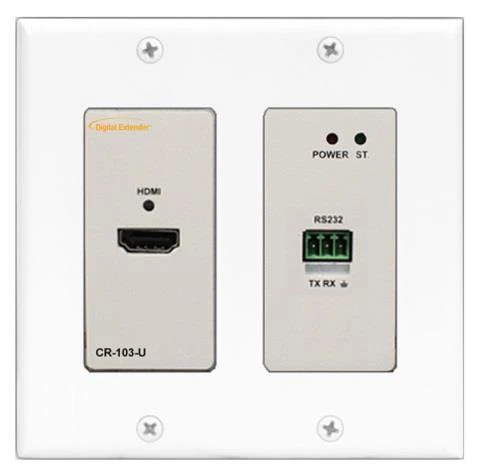
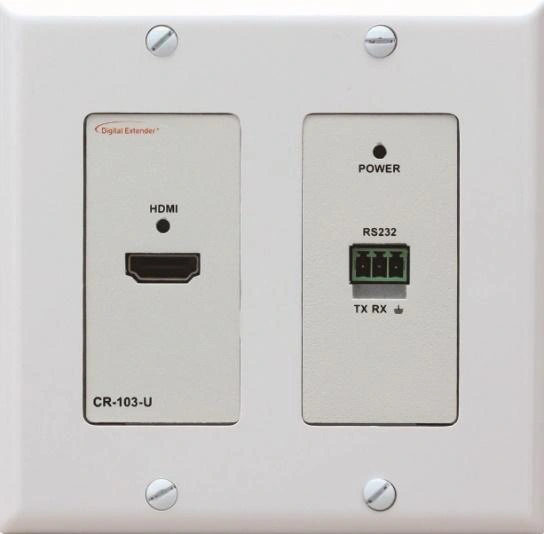
0.140.0: CT103-U-H·CR103-U 제품 사진을 통합 매뉴얼 표지 고해상도 사진으로 교체
Claude-Session: https://claude.ai/code/session_01X4dTwEvCxXWf4rzmBjcGDt

diff --git a/index.html b/index.html
@@ -1,7 +1,7 @@
 <!doctype html>
 <html lang="ko"><head><meta charset="utf-8"><meta name="viewport" content="width=device-width,initial-scale=1"><title>RTCOM 매트릭스 구성기</title><meta name="description" content="RTCOM XDM, SPX, VDM 매트릭스 카드 슬롯 구성기와 알티컴 공개 제품정보"></head><body><div id="rtcom-design" aria-label="RTCOM 매트릭스 구성기">
   <link rel="stylesheet" href="src/styles.css">
-  <header class="rt-top"><a class="rt-brand-lockup" href="./"><span class="rt-brand-mark" aria-hidden="true">▦</span><span><span class="rt-brand">RT<span>COM</span> Configurator</span><span class="rt-brand-sub">XDM · SPX · VDM CARD SLOT DESIGN</span></span></a><nav class="rt-view-tabs" aria-label="화면 전환"><a data-view-tab="configurator" href="#matrix-configurator" aria-current="page">매트릭스 구성기</a><a data-view-tab="products" href="#products">알티컴 제품정보</a></nav><div class="rt-top-links"><a class="rt-portal-link" href="https://seoulav.github.io/AV-Portal/" target="_blank" rel="noopener">AV Portal에서 제품 찾기 <span aria-hidden="true">↗</span><span class="rt-visually-hidden">(새 창)</span></a><div class="rt-meta"><b>AV 시스템 설계 도구</b><br>CATALOG BASED · 0.139</div></div></header>
+  <header class="rt-top"><a class="rt-brand-lockup" href="./"><span class="rt-brand-mark" aria-hidden="true">▦</span><span><span class="rt-brand">RT<span>COM</span> Configurator</span><span class="rt-brand-sub">XDM · SPX · VDM CARD SLOT DESIGN</span></span></a><nav class="rt-view-tabs" aria-label="화면 전환"><a data-view-tab="configurator" href="#matrix-configurator" aria-current="page">매트릭스 구성기</a><a data-view-tab="products" href="#products">알티컴 제품정보</a></nav><div class="rt-top-links"><a class="rt-portal-link" href="https://seoulav.github.io/AV-Portal/" target="_blank" rel="noopener">AV Portal에서 제품 찾기 <span aria-hidden="true">↗</span><span class="rt-visually-hidden">(새 창)</span></a><div class="rt-meta"><b>AV 시스템 설계 도구</b><br>CATALOG BASED · 0.140</div></div></header>
   <section class="rt-configurator-view" aria-label="매트릭스 구성기">
     <div id="matrix-configurator" class="rt-configurator-anchor"><h1 class="rt-visually-hidden" tabindex="-1">매트릭스 구성기 — 프레임을 선택하고 실제 슬롯 위치에 입력·출력 카드를 장착해 구성합니다.</h1></div>
     <div class="rt-workspace"><div class="rt-tools"><button class="rt-button" data-tool="undo" disabled>↶ 실행 취소</button><button class="rt-button" data-tool="redo" disabled>↷ 다시 실행</button><button class="rt-button" data-tool="backup">JSON 백업</button><button class="rt-button" data-tool="import">불러오기</button><button class="rt-button" data-tool="reset">새 구성</button></div><p id="save-status" role="status" aria-live="polite">이 브라우저에 자동 저장됩니다.</p><input id="import-file" type="file" accept=".json,application/json" hidden></div><nav class="rt-nav" aria-label="구성 단계"></nav>

diff --git a/CLAUDE.md b/CLAUDE.md
@@ -50,7 +50,7 @@
 
 - 현재 화면 버전은 `index.html`의 우측 상단 표기와 `README.md`에 함께 기록합니다.
 - 원본 `main`에 기능 묶음을 병합할 때 마이너 버전을 올리고, 같은 커밋에서 `CHANGELOG.md`를 갱신합니다.
-- 구성기 단일 화면 전환은 `0.7.0`, Analog Way 방식 화면 개편은 `0.8.0`, 전송기 자동 연동은 `0.9.0`, HDMI 카드 PSE 쌍 연장은 `0.10.0`, SPX 매뉴얼 사진 슬롯은 `0.11.0`, VDM-256X 추가는 `0.12.0`, VDM 매뉴얼 후면 도면 슬롯은 `0.13.0`, 휴대폰 슬롯 겹침·뒤로가기 수정은 `0.14.0`, VDM 전면 도면은 `0.15.0`, 사진 슬롯 판넬 잘림 수정은 `0.16.0`, 장착 슬롯 번호표 숨김·구성 요약 카드 확대는 `0.17.0`, XDM 판넬 손나사 잘림 수정·VDM 전송기 연동·로고 홈 이동 확인은 `0.18.0`, 알티컴 공개 제품정보(29종) 재게시는 `0.19.0`, 제품정보 상세 표기를 에이앤미디어(antez.co.kr) 방식으로 정리한 것은 `0.20.0`, 데이터 기반 연결 다이어그램 추가는 `0.21.0`, 제품 사양 표를 구분·사양 2단으로 정리한 것은 `0.22.0`, 휴대폰 가로 스크롤(긴 출처 경로) 수정은 `0.23.0`, HD-14U·HD-18U 모델명 정정과 VDM CT102-U·FT102-U 계열 제외는 `0.24.0`, 제조사 카탈로그 원본 연결 다이어그램 적용은 `0.25.0`, 제품 사양 표 디자인(분류 색 점) 다듬기는 `0.26.0`, 새 카탈로그로 나머지 25종 재검증·XDM-CTR100 조합 다이어그램은 `0.27.0`, 연결 다이어그램 가로 스크롤 안내(그러데이션 표시)와 XDM-CTR100 케이블별 최대 전송거리(CI6522 80m) 추가는 `0.28.0`, VDM HOS4-U·HOS4S-UW 카드 설명을 스위칭 방식(일반·심리스)으로 정리하고 XDM-288을 구성기에서 삭제한 것은 `0.29.0`, XDM-CTR100 연결 다이어그램 조합 1을 매트릭스 카드 직결 배선으로 바로잡고 제조사 원본 다이어그램에 출처 캡션·표기 다름 경고를 추가하고 6개 제품과 SPX 다이어그램을 다시 잘라낸 것은 `0.30.0`, VDM 전송기 4종(CT101-U/CR101-U·CT103-U-H/CR103-U·FT101-U/FR101-U·FT103-U-H/FR103-U)에 RS-232 단자 행을 추가하고 이 4종과 CT104-U/CR104-U를 46쪽판과 재대조하고 27종 전체의 카탈로그 쪽 표기를 46쪽판 기준으로 통일한 것은 `0.31.0`, `docs/audit/PRODUCT_DIAGRAM_REVIEW_2026-09-27.md` §6 판단표대로 13개 제품의 검토 필요 항목을 정리해 REVIEW REQUIRED 배지를 없앤 것은 `0.32.0`, 제품정보 화면을 사용자 LED 구성기 계승 글래스 디자인으로 개편한 것(`docs/handoff/PRODUCT_GLASS_REDESIGN_SPEC.md` 6-A: 기반·HD-210U·XDM·VDM·SPX)은 `0.33.0`, 나머지 23종(분배기·일체형·전송기·케이블)에 lead·subtitle·portMap을 채우고 분배기·일체형 신호 흐름을 승인 시안 방식으로 바꾸고 QMS 화면 구성 모드(videoModes)를 추가한 것(6-B)은 `0.34.0`, HD-13U 상세에 전면 EDID 로터리 스위치 위치 표시와 EDID 코드표(edidSwitch, 사용자 제공 매뉴얼 근거)를 추가한 것은 `0.35.0`, HD-104U·HD-108U 모델명 표기를 0.24.0 정정 이전으로 되돌리고(사용자 확인 2026-09-27: 카탈로그 표기는 HD-104U·HD-108U이며 실크만 14U·18U로 변경 예정) HD-210U 전면 설정 스위치(딥 스위치·EDID 로터리) 추가와 신호 흐름 매트릭스 판정 복원을 함께 묶은 것은 `0.36.0`, 매트릭스 구성기 화면을 Analog Way 구조 + LED 글래스 스킨으로 개편하고 블랭크 커버(`placements`의 예약값 `"BLANK"`)로 슬롯 구성을 완성하는 기능을 추가한 것(`docs/handoff/CONFIGURATOR_AW_GLASS_SPEC.md`, 사용자 결정 2026-09-27)은 `0.37.0`, 0.37.0에서 시안과 다르게 남겨 둔 04 전송기 화면을 사용자 검토 후 좌우 분할 구조(01·02와 같은 틀)로 다시 지은 것(`docs/implementation/CONFIGURATOR_AW_GLASS.md` "04 전송기(편차 — 0.38.0에서 해소)")은 `0.38.0`, 제품 상세 "01 한눈에 보기" 위에 큰 사진 띠와 누르면 확대되는 돋보기(라이트박스)를 추가하고 화면에 보이는 제품 사양·주요 기능의 "up to" 표기를 "최대"로 통일하고 제품정보 "확인 사항" 118건을 2건으로 정리(HD-210U 크기 355mm 정정, `docs/audit/PRODUCT_ISSUES_ARCHIVE_2026-09-27.md`)한 것은 `0.39.0`, HD-13U "05 주요 기능"에 오디오 병합(믹스)·추출(디먹스) 동시 사용 안내(매뉴얼 7쪽 근거)를 추가한 것은 `0.40.0`, 분배기(HD-13U·HD-104U·HD-108U·HD-210U) EDID 로터리 코드표에서 자주 쓰는 1·7번을 강조하고 "02 신호 흐름"에 오디오 병합·추출(AUDIO OUT·"추출" 표시)을 추가한 것은 `0.41.0`, 사진 없이 입출력 표 카드로만 보이던 7종(HD-D102U·XDM-CTR100·전송기 5종)의 단자 지도를 HD-13U처럼 실제 제품 사진 기준으로 바꾸고 `portMap`이 송신기·수신기 사진 여러 장을 받게 한 것은 `0.42.0`, HDS-21U·HDS-42MU에 EDID 로터리(edidSwitch)를 추가하고 오디오 병합 설명을 "HDMI OUTPUT에 실리는 오디오" 기준으로 정정하고 분배기·선택기 필터를 HDMI 출력 개수 순으로 정렬하고 XDM-CTR100 "02 신호 흐름" 케이블 최대 전송거리 표기를 다이어그램 하단 한쪽으로 모은 것은 `0.43.0`, 분배기·선택기 필터 정렬을 분배기(Splitter)가 먼저 나오고 셀렉터(Switcher)가 나중에 나오도록(같은 종류 안에서는 HDMI 출력 개수 순) 바꾼 것은 `0.44.0`, 사용자 제공 매뉴얼 3권으로 벽부형 XDM-CT103·CT103-U-H/CR103-U·FT103-U-H/FR103-U의 단자 지도·사양·EDID 표를 보완하고 단자 지도에 세로 괄호·표시 폭·안내 줄을 추가한 것은 `0.45.0`, XDM-CTR100 PSE 제품 안내서와 XDM-CTR100 매뉴얼 Ver.1.4로 CTR100 단자 역할(HDMI IN·OUT, 5핀 오디오 출력, 상태 LED)·딥 스위치 설정·PSE 크기·전원을 보완한 것은 `0.46.0`, 옛 PR #22에만 있던 사용자 결정(XDM-CTR100과 XDM-CTR100 PSE를 별도 제품으로 분리해 28종, QMS-88UX 쿼드 뷰 출력 9·10번 사용법, 모델명 줄바꿈 방지)을 현재 main 기준으로 다시 옮기고 HD-13U 오디오 병합·추출을 선택 방식으로 정정해 07 오디오 설정 카드를 추가하고 모든 제품의 단자 지도 번호를 HDMI 입력 → 출력 → 오디오 → … → 전원(마지막) 순으로 통일한 것은 `0.47.0`, QMS-88UX 출력 9·10번 멀티뷰의 12가지 레이아웃·입력 그룹·출력 옵션을 사용자 제공 매뉴얼 20~23쪽 근거로 "주요 기능"에 적은 것은 `0.48.0`, HDS-21U·HDS-42MU 오디오 병합·추출을 딥 스위치 1번 선택 방식으로 정정하고 07 오디오 설정 카드를 추가하고 사용자 제공 매뉴얼 Ver.1.0으로 Priority·분배 기능 딥 스위치를 보완하고 제품 사진 팝업을 사용자 LED 계산기 "05 프로세서" 방식(사진 탭·원형 돋보기)으로 바꾼 것은 `0.49.0`, QMS-88UX "02 신호 흐름"에서 멀티뷰 출력 9·10번을 매트릭스 출력과 분리된 별도 갈래(패널·캡션)로 다시 그리고 "05 주요 기능" 멀티뷰 항목을 요약하고 오디오 출력 2개(QD1·QD2)가 선택 가능한 출력임을 반영한 것은 `0.50.0`, QMS-88UX "04 제품 사양"의 조건 칸(부설)을 모두 비우고 LAN(Telnet & Web Browser) 표기를 사양·기능·개요·단자 지도에서 모두 뺀 것은 `0.51.0`, HDS-42MU 크기를 사용자 결정에 따라 매뉴얼 값 232×65×30mm로 바꾸고 제품 상세의 "자료 출처·검토 기록"을 "제조사 자료"로 이름을 바꿔 화면의 출처 표시를 뺀 것은 `0.52.0`, QMS-88UX 오디오 QD1·QD2 설명 정리·"02 신호 흐름" 오디오 추출 점선과 멀티뷰 8입력분할 표현 정리·입출력 단자 표 정렬 통일(TX→구분 없음→RX, 영상→오디오→전송→제어, 입력→출력→양방향)·"제조사 자료"에서 표기 다름·참고 사항도 추가로 뺀 것과 조건 칸의 출처 문구를 지우고 "05 주요 기능"을 한 줄 요약으로 줄인 것(상세는 06·07 카드·사양·단자 지도로 이동)은 `0.53.0`, XDM-CTR100·CTR100 PSE "04 제품 사양"의 딥 스위치 행을 다시 삭제(딥 스위치는 05 주요 기능에서만 안내)하고 전 제품 "05 주요 기능"을 추가로 압축하고 매트릭스 COS/CIS/FIS/FOS 카드와 짝인 전송기 3종(XDM-CTR100·CTR100 PSE·FT101/FR101)에 RS-232+ 패스스루(AMX 등 통합 제어 신호를 매트릭스·전송기 너머로 전달) 안내를 추가하고 "02 신호 흐름"의 케이블 최대 전송거리 표기를 범례 "출력" 항목 오른쪽으로 옮긴 것은 `0.54.0`, 구성기 확인 창을 사이트 글래스 스타일 대화상자로 바꾸고 카드 팝업에 수량 채우기와 같은 방향 슬롯 이동(끌어 옮기기·팝업 이동)을 추가하고 XDM 세로 슬롯 카드를 180도 돌리고 2U 이상만 정면·후면 버튼(그보다 작으면 정면 사진과 포트 연결면을 함께 표시)으로 하고 구성기 작업 단계 표기를 한글로 바꾸고 Delete 키 카드 빼기와 XDM RS-232+(CIS·COS·FIS·FOS 카드와 짝 전송기) 표기를 더한 것은 `0.55.0`, 전 제품 "05 주요 기능" 카탈로그 어투 통일("~ 지원")·"01 한눈에 보기" 위 사진 띠 삭제·"02 신호 흐름"과 "03 단자 지도" 순서 교체 및 영문 표기(Signal Flow·Port Map)·화면 구성 모드 등 06 카드를 05 옆으로 배치·QMS-88UX 06 화면 구성 모드 레이아웃 12종 클릭 미리보기 추가·HDS-21U·HDS-42MU 단자 지도를 정면·후면 선택 버튼 없이 위아래 합성 사진 한 장(번호 1~7, EDID 로터리 6번·전원 7번)으로 바꾼 것은 `0.56.0`, 05 옆으로 옮긴 06 카드가 휴대폰에서 01보다 먼저 뜨던 순서 버그를 고치고(rt-pg-col-mobile-6 클래스 추가) 15개 제품 "05 주요 기능"의 "~할 수 있다." 표현 24곳을 명사형으로 정리한 것은 `0.57.0`, HDS-21U·HDS-42MU 단자 지도에 MODE 딥 스위치 번호(7번)를 추가하고 07 오디오 설정 카드를 딥 스위치 그림(번호별 OFF·ON) 카드인 07 딥 스위치 설정으로 바꾸고(1번 오디오 병합·추출, 2번 Priority, 42MU만 3번 분배) 04 제품 사양의 딥 스위치 행과 05 주요 기능의 긴 설명을 이 카드로 옮기고 매트릭스 제품(QMS-44UX·QMS-88UX·HDS-42MU) "03 Signal Flow"를 입력이 한 점으로 모이는 모양 대신 크로스포인트(출력마다 입력 선택 예시)로 다시 그리고 HDS-42MU 정면 사진의 잘못 인쇄된 실크(MODE·EDID)를 사진 안에서 서로 바꾼 것은 `0.58.0`, EDID 로터리 태그 잘림·06 EDID 카드 배치·긴 코드표 좌우 분할을 고치고 EDID 설정 카드에 기본값·자주 쓰는 코드를 파란 16단 로터리 그림(화살표가 코드를 가리킴)으로 보여주고 HDS-21U·HDS-42MU(3·9번)·FT103-U-H/FR103-U(3·6번)에 자주 쓰는 코드 강조를 더하고 EDID 코드표 세로 크기를 줄인 것은 `0.59.0`, 04 제품 사양 표 줄 간격을 약 15% 줄이고 03 Signal Flow에서 AUDIO OUT "추출" 표시가 잘리던 그림 너비 계산을 고친 것은 `0.60.0`, HD-13U 07 오디오 설정을 06 EDID 다음 전체 폭으로 옮겨 잘림·번호 뒤집힘을 고치고 EDID 대표 설정과 같은 칸 4개(MODE 로터리 0번 → SET 누름 → OUT 1 LED 깜빡임·깜빡이지 않음)를 넣고 HD-210U에 매뉴얼 Ver.1.2 근거 07 딥 스위치 설정 카드(1번 오디오 병합, 2번 DDC)를 추가한 것은 `0.61.0`, 딥 스위치 카드가 있는 HD-210U·HDS-21U·HDS-42MU의 05 주요 기능에서 스위치 번호 참조를 지우고 HD-210U(5줄)·HD-13U(3줄) 05 주요 기능을 기능 이름만 남겨 정리하고 HDS-21U·HDS-42MU 딥 스위치 칸을 ON → OFF 순서로 바꾼 것은 `0.62.0`, QMS-44UX·QMS-88UX "06 화면 구성 모드" 카드가 05 옆 좁은 칸에 들어가면서 모드 카드 설명·레이아웃 칩이 카드 밖으로 넘치던 문제를 edidSwitch와 같은 기준(항상 전체 폭 아래)으로 고친 것은 `0.63.0`, SPX-TX/RX 전송기를 29번째 제품으로 추가(매뉴얼 Ver.2.0: 사양·단자 지도·딥 스위치 조합)하고 XDM-FT101/FR101에 매뉴얼 Ver.1.3 근거 EDID·오디오 로터리 카드(전체 8칸 그림)를 넣고 SPX 안내·범례의 HDBaseT 표기를 CATx로 바로잡고 OBUX-1C에 매뉴얼 Ver.2.2 근거 Tx Mode 딥 스위치 카드(1번 오디오, 2·3·4번 EDID 조합)를 넣고 전 제품 05 주요 기능의 "~한다/~다." 문장을 "~ 지원"·명사형으로 통일한 것은 `0.64.0`, OBHD-2C에 매뉴얼 KV01 근거 06 EDID 설정(MODE 로터리 0~D 전체 14칸 그림·코드표)을 추가하고 XDM-CT103/CR103 04 제품 사양의 전원(어댑터) 중복 행(CT103·CR103 각각 있던 동일 값)을 공통 행 하나로 합친 것은 `0.65.0`, XDM-CTR100·XDM-CTR100 PSE에 매뉴얼 Ver.1.4 근거 06 딥 스위치 설정(1·2번 TX/RX 모드 조합, 3번 전송 거리)을 추가하고 두 제품이 별도 페이지로 나뉜 뒤에도 남아 있던 04 제품 사양의 "공통"·자기 모델명 반복 표기를 정리하고 04 사양 "지원 케이블"을 "권장 케이블"로 바꾸고 분배기 4종(HD-13U·HD-104U·HD-108U·HD-210U) 단자 지도를 앞면·뒷면 합성 사진 한 장으로 바꿔 정면 로터리(·SET·MODE)에도 번호를 붙인 것은 `0.66.0`, QMS-88UX 06 화면 구성 모드 QUAD 레이아웃 목록에 매뉴얼 22~23쪽 Output Option 2·3 근거로 "8분할(비율무시)"을 13번째 항목으로 추가하고 분배기 4종(HD-13U·HD-104U·HD-108U·HD-210U) 05 주요 기능에 다단 증폭(캐스케이드 연결) 최대 3단 지원을 추가한 것은 `0.67.0`, XDM-FT101/FR101 단자 지도에 정면 MODE 로터리·S/P 번호를 추가하고 HD-D102U 05 주요 기능을 명사형으로 전면 재작성하고 HDS-21U·HDS-42MU "Audio Extraction"과 HD-210U EDID "Nothing" 표기를 통일하고 HDS-21U 딥 스위치 3번(분배)이 매뉴얼에 없는 기능이었음을 사용자 제공 매뉴얼로 확인해 삭제한 것은 `0.68.0`, HDS-21U·HDS-42MU 06 EDID 설정 안내 문장에서 "10번=A, 11번=B"처럼 10진수를 다시 설명하던 괄호를 완전히 지운 것은 `0.69.0`, 구성기 "섀시"를 "프레임"으로 통일하고 카드 팝업에 수량·순서대로 장착 버튼을 넣고 02 프레임 선택에 "함께 보면 좋은 제품"을 추가하고 빈 슬롯 공패널색을 통일하고 OBHD-2C EDID 로터리 번호를 매뉴얼 Ver.2.1 기준으로 정정하고 HD-D102U "스마트 EDID" 문구를 알기 쉽게 풀어 쓰고 HD-13U·XDM-CTR100 PSE "인증: KC 인증" 행을 삭제하고 HD-D102U 04 사양표를 HD-13U와 같은 구성으로 정리한 것은 `0.70.0`, OBHD-2C 04 제품 사양의 크기·무게·HDMI 규격을 사용자 결정에 따라 매뉴얼 Ver.2.1 값(128×89×25mm·0.36kg·HDMI 1.3)으로 바꾼 것은 `0.71.0`, OBHD-2C·OBUX-1C 04 제품 사양의 입력단자·출력단자(HDMI(female) 등 표기) 행을 삭제하고 전 제품(16종)의 mm/kg 옆 인치·lbs 병기를 지운 것은 `0.72.0`, XDM-PSU 전원 장치를 반영해 BOM의 임시 "전원 공급 장비"를 XDM-PSU(16칸당 1대)·XDM-POH(CTR100 Tx 1대당 1개)·XDM-PHX(COS100 1장당 1개)로 나누고 XDM-PSU를 30번째 제품으로 추가하고, HDS-21U·OBUX-1C 송신기·수신기 고해상도 실물 사진을 반영하고, CT103-U-H/CR103-U 04 제품 사양을 요약 형태로 정리한 것은 `0.73.0`, QMS-44UX 전면·후면 사진을 사용자가 직접 촬영한 고화질 사진으로 바꾸고 03 단자 지도 좌표를 재보정하고 새 사진에서 확인된 DOWNLOAD(Mini-USB) 포트를 추가한 것은 `0.74.0`, HD-108U 전면·후면 사진을 제조사에서 입수한 고화질 사진으로 바꾸고 03 단자 지도와 06 EDID 설정 로터리 스위치 좌표를 재보정한 것은 `0.75.0`, HDS-42MU 전면·후면 사진을 고화질로 바꾸고 단자 지도·EDID 좌표를 재보정한 것은 `0.76.0`, HD-13U·SPX-M810 전면·후면 사진을 고해상도로 바꾸고 HD-13U 단자 지도·EDID 좌표와 SPX-M810 구성기 카드 슬롯 좌표를 재측정한 것은 `0.77.0`, 사용자가 제공한 HD-104U 고해상도 전면·후면 사진(긴 변 약 2000px)으로 기존 저해상도 이미지를 교체하고 단자 지도·EDID 로터리 스위치 좌표를 새 사진 기준으로 다시 측정한 것은 `0.78.0`, 제품 상세에 등록된 제조사 카탈로그·매뉴얼 PDF만 "제품 목록" 옆 버튼(새 탭 보기·내려받기)으로 보여 주는 구조를 추가한 것은 `0.79.0`, 매트릭스 카드 상세 정보 버튼과 XDM·SPX·VDM 카드 26종 사양을 등록한 것은 `0.80.0`, 로컬 작업 환경(`DEVICE_WORKFLOW.md`, `.gitattributes`, `.claude/settings.json`)과 `input_doc` 자료 자동 분류(`.claude/skills/input-doc`, `scripts/input_doc.py`)를 추가한 것은 `0.81.0`, 제조사 자료 입출력 단자 표에서 방향("입력"·"출력"·"입출력")·수량(숫자) 칸이 좁은 화면에서 줄바꿈되던 문제를 30개 제품 전수 조사로 찾아 고친 것은 `0.82.0`, 제목에 송신기·수신기가 들어간 제품 10종의 라벨을 색으로 구분한 것은 `0.83.0`, input_doc 첫 정리(매뉴얼 20권·사양서 1장)로 VDM HOS4-U 카드 사양을 등록하고 CIS4-U·COS4-U·QOS4S-U를 매뉴얼 KV07 값으로 보완하고 input_doc 반영 장부(`docs/evidence/input-doc-ledger.json`)와 파일별 반영 표시(`input_doc/STATUS.md`)를 추가하고 검증된 PR의 병합·배포를 Claude가 이어서 하도록 규칙을 바꾼 것은 `0.84.0`, 카탈로그·매뉴얼 충돌 정리(`docs/audit/CATALOG_MANUAL_CONFLICTS_2026-09-28.md`) 결정대로 VDM -U 카드에 매뉴얼 해상도 행·SOS4 오디오 포트를 더하고 QMS-88UX 멀티뷰에 8분할(16:9 비율)을 추가한 것은 `0.85.0`, 카탈로그·매뉴얼 충돌 항목을 사용자 결정("새로준 자료 기준으로")에 따라 매뉴얼 값으로 통일한 것(HD-104U 전원 1A, XDM 전송기 3840x2160, VDM 광 카드 10km·-U 카드 4096×2160·HOS4S-UW 1920×1080)은 `0.86.0`, RT컴 제공 고해상도 실물 사진으로 XDM-CTR100·XDM-FT101·XDM-FR101·XDM-CT103 제품 사진·목록 카드·구성기 04 전송기 썸네일을 교체하고 CTR100·FT101·CT103 단자 지도를 새 사진으로 다시 합성하고 XDM-FR101 수신기 뒷면 단자 지도를 추가한 것은 `0.87.0`, 사용자 결정("1번")으로 input_doc 매뉴얼 17개를 공개 폴더에 올려 16개 제품 상세에 매뉴얼 PDF 버튼을 켠 것은 `0.88.0`, 사용자 확인("ctr100과 pse는 단자는 동일해")에 따라 XDM-CTR100·XDM-CTR100 PSE 단자 지도를 같은 합성 사진(앞면 PSE 제품 안내서 사진 + 뒷면 RT컴 CTR100 사진)으로 바꾼 것은 `0.89.0`, QMS-88UX 06 화면 구성 모드의 DUAL 카드("듀얼 모드" 한 마디뿐)를 매뉴얼 KV.04 20~21쪽 근거로 출력 9·10번 멀티뷰 설정의 2분할(PBP)·PIP 레이아웃 3종으로 채운 것은 `0.90.0`, XDM-CTR100 PSE 정면 사진을 사용자가 재확인("1번 맞아"·"적용시켜줘")한 원본 PNG에서 정확한 픽셀 경계로 다시 잘라 646×396으로 다시 저장한 것은 `0.91.0`, SPX-TX/SPX-RX 단자 지도 사진의 검은 배경을 흰색으로 바꾸고(사용자 요청) 전송기 6개 제품 사양의 ft(피트) 표기를 일괄 삭제한 것은 `0.92.0`, 전송기 9종 04 제품 사양 조건 칸의 "모델A·모델B 공통" 표기 55곳을 일괄 삭제하고 XDM-PSU에 "03 Signal Flow"(POH 입력 경로·PHX 출력 경로, 주황 전원 선) 그림을 추가한 것은 `0.93.0`, XDM-CTR100·XDM-CTR100 PSE 04 제품 사양의 최대 전송거리 3행을 1행으로 합치고 권장 케이블 행을 지우고 PSE 목록 썸네일을 정면 사진으로 바꾼 것은 `0.94.0`, 전체 카탈로그 46쪽판을 공용 파일(`rtcom-catalog-2026.pdf`) 하나로 공개해 29개 제품 상세의 카탈로그 PDF 버튼이 제품 쪽(`#page=N`)에서 열리고 제품 목록에 전체 카탈로그 버튼을 둔 것(사용자 결정 2026-09-28 "전체 카탈로그 공개해도 돼")은 `0.95.0`, QMS-88UX 06 화면 구성 모드의 QUAD·DUAL 설명 문장을 짧게 줄이고 매뉴얼 쪽 번호를 화면에 안 보이는 `page` 항목으로 옮기고 QMS-44UX QUAD 설명도 두 줄로 나눠 줄인 것(사용자 요청 "QMS-44, 88 모두 글이 너무 많아 좀 더 요약해줘")은 `0.96.0`, 전체 카탈로그 46쪽판에서 제품마다 해당 쪽만 뽑은 제품별 카탈로그 PDF 29개(`<제품id>-catalog.pdf`, XDM은 전송기 쪽을 뺀 4~9쪽, SPX-TX/RX는 16쪽)를 만들어 제품 상세 카탈로그 버튼에 연결한 것(사용자 결정 2026-09-28 "제품별로 잘라 공개")은 `0.97.0`, XDM-PSU "03 Signal Flow"를 제조사 연결도처럼 매트릭스 프레임(CIS100·COS100)·XDM-PSU(POH·PHX)·XDM-CTR100 Tx/Rx 장비 그림으로 다시 그리고 케이블을 따라 신호·전원이 흐르는 애니메이션을 넣은 것(사용자 요청 2026-09-28)은 `0.98.0`, 그 그림의 XDM-COS100을 포트마다 RJ45+피닉스 5핀으로 고쳐 PHX 2핀 전원선이 1번 포트 피닉스 단자에 꽂히게 하고(사용자 확인 "COS PHNIX픽에 전원연결") XDM-PSU Signal Flow에만 "크게 보기" 확대 창(100~300%)을 넣은 것은 `0.99.0`, QMS-88UX "8분할(16:9 비율)" 미리보기가 매뉴얼(KV.04 23쪽)처럼 위·아래 여백을 짙은 막대로 보여주게 고친 것(사용자 지적 "8분할시 비율유지는 안되는거 같은")은 `0.100.0`, 구성기 카드 팝업 "카드별 수량" 스테퍼가 다 채운 뒤 사라지던 버그를 고친 것은 `0.101.0`, OBHD-2C 단자 지도 사진 3장의 검은 배경을 흰색으로 바꾼 것(사용자 요청 2026-09-28 "OBHD-2C 이미지 너가 블랙을 뺄수 있을까?")은 `0.102.0`, XDM-CTR100과 동등 사양인 XDM-CT103/CR103의 "권장 케이블"을 "CAT6a, CAT7"에서 "CAT6A S/FTP 이상(UTP 사용 불가)"으로 정정하고 XDM-CIS100·COS100 카드 소개 문구도 맞춘 것은 `0.103.0`, XDM-CTR100 PSE 크기 표기를 사용자 제공 스펙표 근거로 "107.4[127.4]×88×30.1mm"(본체[브래킷 포함])로 QMS-88UX와 같은 표기 관례로 바꾼 것은 `0.104.0`, XDM-PSU 머리 아이콘을 전원(번개) 모양으로 바꾸고 02 Port Map 앞면·뒷면을 03 Signal Flow와 같은 평면 그림(`scripts/tools/draw_xdm_psu_panels.cjs`, 제조사 도면 배치)으로 다시 만든 것(사용자 요청 2026-09-28)은 `0.105.0`, XDM-PSU 03 Signal Flow의 COS100 전원선 길이·배치를 조정하고 확대 창 범례 누락을 고친 것은 `0.106.0`, OBHD-2C 사진 3장에서 원본부터 깨져 있던 실크 글자(송신기 PWR의 R·EDID S/W의 D 두 개, 수신기 AUDIO의 D)를 같은 사진의 온전한 글자로 복원한 것은 `0.107.0`, HD-13U 제품 상세 카탈로그 PDF 버튼을 새 탭 대신 화면 안 팝업(iframe)으로 여는 샘플을 적용하고(사용자 요청 2026-09-28 "카달로그는 팝업형태 보이면 어때? 1장짜리라서 파일다운받아서 다시 열기 불편해", "샘플로 HD-13U만 적용해줘"), 카드 선택 팝업의 "순서대로 장착"·"닫기" 버튼을 "장착" 하나로 합치고 "다른 출력 슬롯으로 이동" 드롭다운을 없애고(사용자 요청 "내가 직접 드래그 이동이 가능하니까"), XDM-HOS100 "정사분할" 표기를 "최대 4분할"로 통일하고, XDM-CTR100·XDM-CTR100 PSE "최대 전송거리" 조건 문구를 "*S/FTP CAT6A 필수"로 단순화한 것은 `0.108.0`, QMS-88UX "03 Signal Flow" 멀티뷰 출력 9·10번 캡션을 "9·10번 각 4분할 · 합쳐서 최대 8입력"에서 "9·10번 각 4분할 또는 8분할"로 바로잡은 것(사용자 지적)은 `0.109.0`, XDM 연결 전송기 4종(XDM-CTR100·XDM-CTR100 PSE·XDM-CT103/CR103·XDM-FT101/FR101)의 04 제품 사양 최대 해상도 표기를 `4K60Hz`(4:4:4)로 통일하고 XDM-FT101/FR101의 4096x2160 표기를 개요·주요 기능·사양에서 모두 뺀 것(사용자 결정 2026-09-28 "4종 4K60(4:4:4) 형식으로 통일", "4096은 잘 사용하지 않아서 모든 양식에서 빼자")은 `0.110.0`, 실물 사진이 없는 VDM 프레임 전면 7종·후면 8종을 VDM-16X 실물 사진과 같은 검은 몸체의 평면 그림(`scripts/tools/draw_vdm_frames.cjs`, 매뉴얼 KV07 도면 배치)으로 바꾼 것은 `0.111.0`, HD-13U 카탈로그 팝업을 iframe 대신 저장소에 넣은 PDF.js(`src/vendor/pdfjs/`, Apache 2.0)로 그려 PDF 보기 기능이 없는 휴대폰·인앱 브라우저에서도 다운로드 없이 바로 보이게 한 것(사용자 결정 2026-09-28 "PDF.js로 HD-13U 적용해줘")은 `0.112.0`, 구성기 후면(03 카드 슬롯) XDM 6종(후면 사진이 없던 XDM-216 포함)·SPX 5종 프레임을 VDM과 같은 평면 그림(`scripts/tools/draw_xdm_spx_rear_frames.cjs`)으로 바꾼 것은 `0.113.0`, 02 프레임 선택 미리보기 캡션 아래에 "다음 · 카드 슬롯 구성" 버튼을 넣은 것은 `0.114.0`, 카드 선택 팝업 아래 줄의 "슬롯 비우기(Del)"를 왼쪽·"장착"을 오른쪽으로 바꾼 것은 `0.115.0`, 02 프레임 선택 미리보기에 정면·후면을 함께 보여 주고(위아래·좌우, 후면 세로/가로 비율 2 초과인 XDM-144·216, VDM-80X·128X·180X만 정면/후면 버튼) 휴대폰 미리보기 높이 제한을 없앤 것은 `0.116.0`, 03 카드 선택 팝업에서 카드마다 연동 전송기(칩)를 골라 장착과 함께 연결하게 한 것(02·04는 그대로)은 `0.117.0`, 카드 선택 팝업 연동 전송기에 카드 1장당 수량 조절기를 더해 연결 수량과 물량 산출서(BOM)에 반영한 것은 `0.118.0`, VDM-16X 후면(카드가 꽂힌 실물 사진)을 빈 슬롯 평면 그림으로 바꿔 후면 20종을 모두 그림으로 맞춘 것은 `0.119.0`, VDM 카드 사진(HOS4S-UW·CIS4-U·COS4-U)과 VDM 프레임 그림 슬롯 칸을 모두 5.7:1로 맞춰 카드가 칸에 정확히 들어가게 한 것은 `0.120.0`, HD-D102U를 최대 12대 장착하는 19인치 랙 프레임 "HD-D102U Rack마운트"를 사용자 제공 도면으로 31번째 제품(정면·윗면·옆면 그림, HD-D102U와 서로 관련 제품)으로 추가한 것은 `0.121.0`, 그 제품 상세에 사용자 제공 도면 한 장(윗면·정면·옆면·치수)을 다시 그린 "06 도면" 카드(`drawing` 항목)를 추가한 것은 `0.122.0`, 사용자 요청("실도면은하지말고 그래픽이미지만")으로 그 도면 카드와 치수 그림을 지우고 그래픽 이미지(정면·윗면·옆면)만 남긴 것은 `0.123.0`, 제품별 카탈로그 29종은 미리 그린 쪽 그림 팝업, 매뉴얼 17종은 보이는 쪽만 그리는 PDF.js 팝업으로 넓힌 것(사용자 결정 2026-09-28 "전체 제품으로 넓혀서 올리기")은 `0.124.0`, 제품정보 목록에서 매트릭스 시리즈를 XDM → SPX → VDM 순서로 바꿔 XDM이 맨 앞에 나오게 한 것(사용자 요청 "제품정보 XDM이 처음으로 나오게해")은 `0.125.0`, PC 문서 팝업(카탈로그·매뉴얼) 기본 폭을 720px에서 1040px로 넓히고 좌우 가장자리를 마우스로 끌어 폭을 바꾸고(이 브라우저에 기억, 두 번 누르면 기본 폭) "넓게" 버튼으로 화면 폭까지 펼치며 폭이 바뀌면 쪽을 다시 맞추게 한 것(사용자 요청 2026-09-28 "팝업창의 가로폭이 너무 좁아", "마우스로 창 크기 가변가능할까?")은 `0.126.0`, 01 제품군 미리보기 태그 줄 아래에 "프레임 선택" 버튼을 넣고(02 프레임 선택과 같은 방식) 파란 "다음" 버튼의 → 화살표가 파란 배경에 묻히던 색을 버튼 글자색(흰색)으로 고친 것(사용자 요청 2026-09-28 "이것도 버튼 위로 배치하고 오른쪽 화살표도 보이게")은 `0.127.0`, 01 제품군에서 미리보기 "프레임 선택" 버튼과 겹치던 아래 바의 같은 버튼을 숨겨 하나만 남긴 것(사용자 지적 2026-09-29 "버튼이 중복이다")은 `0.128.0`, 구성기 아래 바의 제품군·모델·카테고리 요약 글을 지우고 01 제품군에서는 아래 바 전체를 숨긴 것(사용자 요청 2026-09-29 "이거 삭제해줘")은 `0.129.0`, HD-D102U Rack마운트 정면 그림을 XDM-PSU 그림과 같은 밝은 회색 금속 몸체·흰 모듈 카드 컨셉으로 다시 그리고 윗면·옆면 그림을 지워 정면만 남긴 것(사용자 요청 2026-09-29 "XDM-PSU 그래픽컨셉을 계승해줘", "윗면 옆면은 전부 삭제해줘 정면만 남겨줘")은 `0.130.0`, 화면 명칭에서 "Matrix"를 뺀 "RTCOM Configurator" 표기(사용자 요청 2026-09-29)는 `0.131.0`, 02 프레임 선택 미리보기 그림 높이를 랙 높이(U)에 비례하는 로그 눈금으로 바꿔 가장 작은 VDM-8X·SPX-M810·XDM-12는 작게, 큰 프레임(VDM-80X~180X, XDM-144·216)은 크게 보이게 한 것(사용자 요청 2026-09-29 "VDM-8X는 다소 크다", "SPX, XDM도 비슷한 컨셉으로")은 `0.132.0`, HD-D102U Rack마운트 정면 그림의 칸 번호를 파란 원 배지로 키운 것(사용자 요청 2026-09-29)은 `0.133.0`, HD-D102U Rack마운트 정면 그림에서 분배기 칸 밖 영역을 조금 어둡게 한 것(사용자 요청 2026-09-29)은 `0.134.0`, 같은 영역을 한 단계 더 어둡게 마무리한 것(사용자 요청 2026-09-29)은 `0.135.0`, 프레임 실물 사진 26장과 제품군 대표 사진 3장을 모두 평면 그래픽 이미지로 바꾸고 02 프레임 선택 아래 바의 중복 "다음" 버튼을 숨긴 것(사용자 요청 2026-09-29 "프레임 실물 이미지는 사용하지 말자 전부 그래픽이미지로 변경해줘")은 `0.136.0`, 02 프레임 미리보기 정면·후면 폭 통일과 대형 프레임 후면 표시·01 제품군 대표 이미지 원복·카드 팝업 기존 장착 수량 표시·SPX 카드 판넬 좌우 간격 통일(사용자 요청 2026-09-29)은 `0.137.0`, XDM 입력 카드 6종 판넬 사진 가로 위치를 기준 카드에 맞춘 것(사용자 요청 2026-09-29 "xdm입력카드 좀 더 가로폭 맞춰줘")은 `0.138.0`, XDM 출력 카드 6종도 같은 방식으로 맞춘 것(사용자 요청 2026-09-29)은 `0.139.0`으로 기록했습니다. 다음 기능 묶음은 `0.140.0`을 목표로 하며, 실제 병합 전에는 검증된 canonical main commit을 확인합니다.
+- 구성기 단일 화면 전환은 `0.7.0`, Analog Way 방식 화면 개편은 `0.8.0`, 전송기 자동 연동은 `0.9.0`, HDMI 카드 PSE 쌍 연장은 `0.10.0`, SPX 매뉴얼 사진 슬롯은 `0.11.0`, VDM-256X 추가는 `0.12.0`, VDM 매뉴얼 후면 도면 슬롯은 `0.13.0`, 휴대폰 슬롯 겹침·뒤로가기 수정은 `0.14.0`, VDM 전면 도면은 `0.15.0`, 사진 슬롯 판넬 잘림 수정은 `0.16.0`, 장착 슬롯 번호표 숨김·구성 요약 카드 확대는 `0.17.0`, XDM 판넬 손나사 잘림 수정·VDM 전송기 연동·로고 홈 이동 확인은 `0.18.0`, 알티컴 공개 제품정보(29종) 재게시는 `0.19.0`, 제품정보 상세 표기를 에이앤미디어(antez.co.kr) 방식으로 정리한 것은 `0.20.0`, 데이터 기반 연결 다이어그램 추가는 `0.21.0`, 제품 사양 표를 구분·사양 2단으로 정리한 것은 `0.22.0`, 휴대폰 가로 스크롤(긴 출처 경로) 수정은 `0.23.0`, HD-14U·HD-18U 모델명 정정과 VDM CT102-U·FT102-U 계열 제외는 `0.24.0`, 제조사 카탈로그 원본 연결 다이어그램 적용은 `0.25.0`, 제품 사양 표 디자인(분류 색 점) 다듬기는 `0.26.0`, 새 카탈로그로 나머지 25종 재검증·XDM-CTR100 조합 다이어그램은 `0.27.0`, 연결 다이어그램 가로 스크롤 안내(그러데이션 표시)와 XDM-CTR100 케이블별 최대 전송거리(CI6522 80m) 추가는 `0.28.0`, VDM HOS4-U·HOS4S-UW 카드 설명을 스위칭 방식(일반·심리스)으로 정리하고 XDM-288을 구성기에서 삭제한 것은 `0.29.0`, XDM-CTR100 연결 다이어그램 조합 1을 매트릭스 카드 직결 배선으로 바로잡고 제조사 원본 다이어그램에 출처 캡션·표기 다름 경고를 추가하고 6개 제품과 SPX 다이어그램을 다시 잘라낸 것은 `0.30.0`, VDM 전송기 4종(CT101-U/CR101-U·CT103-U-H/CR103-U·FT101-U/FR101-U·FT103-U-H/FR103-U)에 RS-232 단자 행을 추가하고 이 4종과 CT104-U/CR104-U를 46쪽판과 재대조하고 27종 전체의 카탈로그 쪽 표기를 46쪽판 기준으로 통일한 것은 `0.31.0`, `docs/audit/PRODUCT_DIAGRAM_REVIEW_2026-09-27.md` §6 판단표대로 13개 제품의 검토 필요 항목을 정리해 REVIEW REQUIRED 배지를 없앤 것은 `0.32.0`, 제품정보 화면을 사용자 LED 구성기 계승 글래스 디자인으로 개편한 것(`docs/handoff/PRODUCT_GLASS_REDESIGN_SPEC.md` 6-A: 기반·HD-210U·XDM·VDM·SPX)은 `0.33.0`, 나머지 23종(분배기·일체형·전송기·케이블)에 lead·subtitle·portMap을 채우고 분배기·일체형 신호 흐름을 승인 시안 방식으로 바꾸고 QMS 화면 구성 모드(videoModes)를 추가한 것(6-B)은 `0.34.0`, HD-13U 상세에 전면 EDID 로터리 스위치 위치 표시와 EDID 코드표(edidSwitch, 사용자 제공 매뉴얼 근거)를 추가한 것은 `0.35.0`, HD-104U·HD-108U 모델명 표기를 0.24.0 정정 이전으로 되돌리고(사용자 확인 2026-09-27: 카탈로그 표기는 HD-104U·HD-108U이며 실크만 14U·18U로 변경 예정) HD-210U 전면 설정 스위치(딥 스위치·EDID 로터리) 추가와 신호 흐름 매트릭스 판정 복원을 함께 묶은 것은 `0.36.0`, 매트릭스 구성기 화면을 Analog Way 구조 + LED 글래스 스킨으로 개편하고 블랭크 커버(`placements`의 예약값 `"BLANK"`)로 슬롯 구성을 완성하는 기능을 추가한 것(`docs/handoff/CONFIGURATOR_AW_GLASS_SPEC.md`, 사용자 결정 2026-09-27)은 `0.37.0`, 0.37.0에서 시안과 다르게 남겨 둔 04 전송기 화면을 사용자 검토 후 좌우 분할 구조(01·02와 같은 틀)로 다시 지은 것(`docs/implementation/CONFIGURATOR_AW_GLASS.md` "04 전송기(편차 — 0.38.0에서 해소)")은 `0.38.0`, 제품 상세 "01 한눈에 보기" 위에 큰 사진 띠와 누르면 확대되는 돋보기(라이트박스)를 추가하고 화면에 보이는 제품 사양·주요 기능의 "up to" 표기를 "최대"로 통일하고 제품정보 "확인 사항" 118건을 2건으로 정리(HD-210U 크기 355mm 정정, `docs/audit/PRODUCT_ISSUES_ARCHIVE_2026-09-27.md`)한 것은 `0.39.0`, HD-13U "05 주요 기능"에 오디오 병합(믹스)·추출(디먹스) 동시 사용 안내(매뉴얼 7쪽 근거)를 추가한 것은 `0.40.0`, 분배기(HD-13U·HD-104U·HD-108U·HD-210U) EDID 로터리 코드표에서 자주 쓰는 1·7번을 강조하고 "02 신호 흐름"에 오디오 병합·추출(AUDIO OUT·"추출" 표시)을 추가한 것은 `0.41.0`, 사진 없이 입출력 표 카드로만 보이던 7종(HD-D102U·XDM-CTR100·전송기 5종)의 단자 지도를 HD-13U처럼 실제 제품 사진 기준으로 바꾸고 `portMap`이 송신기·수신기 사진 여러 장을 받게 한 것은 `0.42.0`, HDS-21U·HDS-42MU에 EDID 로터리(edidSwitch)를 추가하고 오디오 병합 설명을 "HDMI OUTPUT에 실리는 오디오" 기준으로 정정하고 분배기·선택기 필터를 HDMI 출력 개수 순으로 정렬하고 XDM-CTR100 "02 신호 흐름" 케이블 최대 전송거리 표기를 다이어그램 하단 한쪽으로 모은 것은 `0.43.0`, 분배기·선택기 필터 정렬을 분배기(Splitter)가 먼저 나오고 셀렉터(Switcher)가 나중에 나오도록(같은 종류 안에서는 HDMI 출력 개수 순) 바꾼 것은 `0.44.0`, 사용자 제공 매뉴얼 3권으로 벽부형 XDM-CT103·CT103-U-H/CR103-U·FT103-U-H/FR103-U의 단자 지도·사양·EDID 표를 보완하고 단자 지도에 세로 괄호·표시 폭·안내 줄을 추가한 것은 `0.45.0`, XDM-CTR100 PSE 제품 안내서와 XDM-CTR100 매뉴얼 Ver.1.4로 CTR100 단자 역할(HDMI IN·OUT, 5핀 오디오 출력, 상태 LED)·딥 스위치 설정·PSE 크기·전원을 보완한 것은 `0.46.0`, 옛 PR #22에만 있던 사용자 결정(XDM-CTR100과 XDM-CTR100 PSE를 별도 제품으로 분리해 28종, QMS-88UX 쿼드 뷰 출력 9·10번 사용법, 모델명 줄바꿈 방지)을 현재 main 기준으로 다시 옮기고 HD-13U 오디오 병합·추출을 선택 방식으로 정정해 07 오디오 설정 카드를 추가하고 모든 제품의 단자 지도 번호를 HDMI 입력 → 출력 → 오디오 → … → 전원(마지막) 순으로 통일한 것은 `0.47.0`, QMS-88UX 출력 9·10번 멀티뷰의 12가지 레이아웃·입력 그룹·출력 옵션을 사용자 제공 매뉴얼 20~23쪽 근거로 "주요 기능"에 적은 것은 `0.48.0`, HDS-21U·HDS-42MU 오디오 병합·추출을 딥 스위치 1번 선택 방식으로 정정하고 07 오디오 설정 카드를 추가하고 사용자 제공 매뉴얼 Ver.1.0으로 Priority·분배 기능 딥 스위치를 보완하고 제품 사진 팝업을 사용자 LED 계산기 "05 프로세서" 방식(사진 탭·원형 돋보기)으로 바꾼 것은 `0.49.0`, QMS-88UX "02 신호 흐름"에서 멀티뷰 출력 9·10번을 매트릭스 출력과 분리된 별도 갈래(패널·캡션)로 다시 그리고 "05 주요 기능" 멀티뷰 항목을 요약하고 오디오 출력 2개(QD1·QD2)가 선택 가능한 출력임을 반영한 것은 `0.50.0`, QMS-88UX "04 제품 사양"의 조건 칸(부설)을 모두 비우고 LAN(Telnet & Web Browser) 표기를 사양·기능·개요·단자 지도에서 모두 뺀 것은 `0.51.0`, HDS-42MU 크기를 사용자 결정에 따라 매뉴얼 값 232×65×30mm로 바꾸고 제품 상세의 "자료 출처·검토 기록"을 "제조사 자료"로 이름을 바꿔 화면의 출처 표시를 뺀 것은 `0.52.0`, QMS-88UX 오디오 QD1·QD2 설명 정리·"02 신호 흐름" 오디오 추출 점선과 멀티뷰 8입력분할 표현 정리·입출력 단자 표 정렬 통일(TX→구분 없음→RX, 영상→오디오→전송→제어, 입력→출력→양방향)·"제조사 자료"에서 표기 다름·참고 사항도 추가로 뺀 것과 조건 칸의 출처 문구를 지우고 "05 주요 기능"을 한 줄 요약으로 줄인 것(상세는 06·07 카드·사양·단자 지도로 이동)은 `0.53.0`, XDM-CTR100·CTR100 PSE "04 제품 사양"의 딥 스위치 행을 다시 삭제(딥 스위치는 05 주요 기능에서만 안내)하고 전 제품 "05 주요 기능"을 추가로 압축하고 매트릭스 COS/CIS/FIS/FOS 카드와 짝인 전송기 3종(XDM-CTR100·CTR100 PSE·FT101/FR101)에 RS-232+ 패스스루(AMX 등 통합 제어 신호를 매트릭스·전송기 너머로 전달) 안내를 추가하고 "02 신호 흐름"의 케이블 최대 전송거리 표기를 범례 "출력" 항목 오른쪽으로 옮긴 것은 `0.54.0`, 구성기 확인 창을 사이트 글래스 스타일 대화상자로 바꾸고 카드 팝업에 수량 채우기와 같은 방향 슬롯 이동(끌어 옮기기·팝업 이동)을 추가하고 XDM 세로 슬롯 카드를 180도 돌리고 2U 이상만 정면·후면 버튼(그보다 작으면 정면 사진과 포트 연결면을 함께 표시)으로 하고 구성기 작업 단계 표기를 한글로 바꾸고 Delete 키 카드 빼기와 XDM RS-232+(CIS·COS·FIS·FOS 카드와 짝 전송기) 표기를 더한 것은 `0.55.0`, 전 제품 "05 주요 기능" 카탈로그 어투 통일("~ 지원")·"01 한눈에 보기" 위 사진 띠 삭제·"02 신호 흐름"과 "03 단자 지도" 순서 교체 및 영문 표기(Signal Flow·Port Map)·화면 구성 모드 등 06 카드를 05 옆으로 배치·QMS-88UX 06 화면 구성 모드 레이아웃 12종 클릭 미리보기 추가·HDS-21U·HDS-42MU 단자 지도를 정면·후면 선택 버튼 없이 위아래 합성 사진 한 장(번호 1~7, EDID 로터리 6번·전원 7번)으로 바꾼 것은 `0.56.0`, 05 옆으로 옮긴 06 카드가 휴대폰에서 01보다 먼저 뜨던 순서 버그를 고치고(rt-pg-col-mobile-6 클래스 추가) 15개 제품 "05 주요 기능"의 "~할 수 있다." 표현 24곳을 명사형으로 정리한 것은 `0.57.0`, HDS-21U·HDS-42MU 단자 지도에 MODE 딥 스위치 번호(7번)를 추가하고 07 오디오 설정 카드를 딥 스위치 그림(번호별 OFF·ON) 카드인 07 딥 스위치 설정으로 바꾸고(1번 오디오 병합·추출, 2번 Priority, 42MU만 3번 분배) 04 제품 사양의 딥 스위치 행과 05 주요 기능의 긴 설명을 이 카드로 옮기고 매트릭스 제품(QMS-44UX·QMS-88UX·HDS-42MU) "03 Signal Flow"를 입력이 한 점으로 모이는 모양 대신 크로스포인트(출력마다 입력 선택 예시)로 다시 그리고 HDS-42MU 정면 사진의 잘못 인쇄된 실크(MODE·EDID)를 사진 안에서 서로 바꾼 것은 `0.58.0`, EDID 로터리 태그 잘림·06 EDID 카드 배치·긴 코드표 좌우 분할을 고치고 EDID 설정 카드에 기본값·자주 쓰는 코드를 파란 16단 로터리 그림(화살표가 코드를 가리킴)으로 보여주고 HDS-21U·HDS-42MU(3·9번)·FT103-U-H/FR103-U(3·6번)에 자주 쓰는 코드 강조를 더하고 EDID 코드표 세로 크기를 줄인 것은 `0.59.0`, 04 제품 사양 표 줄 간격을 약 15% 줄이고 03 Signal Flow에서 AUDIO OUT "추출" 표시가 잘리던 그림 너비 계산을 고친 것은 `0.60.0`, HD-13U 07 오디오 설정을 06 EDID 다음 전체 폭으로 옮겨 잘림·번호 뒤집힘을 고치고 EDID 대표 설정과 같은 칸 4개(MODE 로터리 0번 → SET 누름 → OUT 1 LED 깜빡임·깜빡이지 않음)를 넣고 HD-210U에 매뉴얼 Ver.1.2 근거 07 딥 스위치 설정 카드(1번 오디오 병합, 2번 DDC)를 추가한 것은 `0.61.0`, 딥 스위치 카드가 있는 HD-210U·HDS-21U·HDS-42MU의 05 주요 기능에서 스위치 번호 참조를 지우고 HD-210U(5줄)·HD-13U(3줄) 05 주요 기능을 기능 이름만 남겨 정리하고 HDS-21U·HDS-42MU 딥 스위치 칸을 ON → OFF 순서로 바꾼 것은 `0.62.0`, QMS-44UX·QMS-88UX "06 화면 구성 모드" 카드가 05 옆 좁은 칸에 들어가면서 모드 카드 설명·레이아웃 칩이 카드 밖으로 넘치던 문제를 edidSwitch와 같은 기준(항상 전체 폭 아래)으로 고친 것은 `0.63.0`, SPX-TX/RX 전송기를 29번째 제품으로 추가(매뉴얼 Ver.2.0: 사양·단자 지도·딥 스위치 조합)하고 XDM-FT101/FR101에 매뉴얼 Ver.1.3 근거 EDID·오디오 로터리 카드(전체 8칸 그림)를 넣고 SPX 안내·범례의 HDBaseT 표기를 CATx로 바로잡고 OBUX-1C에 매뉴얼 Ver.2.2 근거 Tx Mode 딥 스위치 카드(1번 오디오, 2·3·4번 EDID 조합)를 넣고 전 제품 05 주요 기능의 "~한다/~다." 문장을 "~ 지원"·명사형으로 통일한 것은 `0.64.0`, OBHD-2C에 매뉴얼 KV01 근거 06 EDID 설정(MODE 로터리 0~D 전체 14칸 그림·코드표)을 추가하고 XDM-CT103/CR103 04 제품 사양의 전원(어댑터) 중복 행(CT103·CR103 각각 있던 동일 값)을 공통 행 하나로 합친 것은 `0.65.0`, XDM-CTR100·XDM-CTR100 PSE에 매뉴얼 Ver.1.4 근거 06 딥 스위치 설정(1·2번 TX/RX 모드 조합, 3번 전송 거리)을 추가하고 두 제품이 별도 페이지로 나뉜 뒤에도 남아 있던 04 제품 사양의 "공통"·자기 모델명 반복 표기를 정리하고 04 사양 "지원 케이블"을 "권장 케이블"로 바꾸고 분배기 4종(HD-13U·HD-104U·HD-108U·HD-210U) 단자 지도를 앞면·뒷면 합성 사진 한 장으로 바꿔 정면 로터리(·SET·MODE)에도 번호를 붙인 것은 `0.66.0`, QMS-88UX 06 화면 구성 모드 QUAD 레이아웃 목록에 매뉴얼 22~23쪽 Output Option 2·3 근거로 "8분할(비율무시)"을 13번째 항목으로 추가하고 분배기 4종(HD-13U·HD-104U·HD-108U·HD-210U) 05 주요 기능에 다단 증폭(캐스케이드 연결) 최대 3단 지원을 추가한 것은 `0.67.0`, XDM-FT101/FR101 단자 지도에 정면 MODE 로터리·S/P 번호를 추가하고 HD-D102U 05 주요 기능을 명사형으로 전면 재작성하고 HDS-21U·HDS-42MU "Audio Extraction"과 HD-210U EDID "Nothing" 표기를 통일하고 HDS-21U 딥 스위치 3번(분배)이 매뉴얼에 없는 기능이었음을 사용자 제공 매뉴얼로 확인해 삭제한 것은 `0.68.0`, HDS-21U·HDS-42MU 06 EDID 설정 안내 문장에서 "10번=A, 11번=B"처럼 10진수를 다시 설명하던 괄호를 완전히 지운 것은 `0.69.0`, 구성기 "섀시"를 "프레임"으로 통일하고 카드 팝업에 수량·순서대로 장착 버튼을 넣고 02 프레임 선택에 "함께 보면 좋은 제품"을 추가하고 빈 슬롯 공패널색을 통일하고 OBHD-2C EDID 로터리 번호를 매뉴얼 Ver.2.1 기준으로 정정하고 HD-D102U "스마트 EDID" 문구를 알기 쉽게 풀어 쓰고 HD-13U·XDM-CTR100 PSE "인증: KC 인증" 행을 삭제하고 HD-D102U 04 사양표를 HD-13U와 같은 구성으로 정리한 것은 `0.70.0`, OBHD-2C 04 제품 사양의 크기·무게·HDMI 규격을 사용자 결정에 따라 매뉴얼 Ver.2.1 값(128×89×25mm·0.36kg·HDMI 1.3)으로 바꾼 것은 `0.71.0`, OBHD-2C·OBUX-1C 04 제품 사양의 입력단자·출력단자(HDMI(female) 등 표기) 행을 삭제하고 전 제품(16종)의 mm/kg 옆 인치·lbs 병기를 지운 것은 `0.72.0`, XDM-PSU 전원 장치를 반영해 BOM의 임시 "전원 공급 장비"를 XDM-PSU(16칸당 1대)·XDM-POH(CTR100 Tx 1대당 1개)·XDM-PHX(COS100 1장당 1개)로 나누고 XDM-PSU를 30번째 제품으로 추가하고, HDS-21U·OBUX-1C 송신기·수신기 고해상도 실물 사진을 반영하고, CT103-U-H/CR103-U 04 제품 사양을 요약 형태로 정리한 것은 `0.73.0`, QMS-44UX 전면·후면 사진을 사용자가 직접 촬영한 고화질 사진으로 바꾸고 03 단자 지도 좌표를 재보정하고 새 사진에서 확인된 DOWNLOAD(Mini-USB) 포트를 추가한 것은 `0.74.0`, HD-108U 전면·후면 사진을 제조사에서 입수한 고화질 사진으로 바꾸고 03 단자 지도와 06 EDID 설정 로터리 스위치 좌표를 재보정한 것은 `0.75.0`, HDS-42MU 전면·후면 사진을 고화질로 바꾸고 단자 지도·EDID 좌표를 재보정한 것은 `0.76.0`, HD-13U·SPX-M810 전면·후면 사진을 고해상도로 바꾸고 HD-13U 단자 지도·EDID 좌표와 SPX-M810 구성기 카드 슬롯 좌표를 재측정한 것은 `0.77.0`, 사용자가 제공한 HD-104U 고해상도 전면·후면 사진(긴 변 약 2000px)으로 기존 저해상도 이미지를 교체하고 단자 지도·EDID 로터리 스위치 좌표를 새 사진 기준으로 다시 측정한 것은 `0.78.0`, 제품 상세에 등록된 제조사 카탈로그·매뉴얼 PDF만 "제품 목록" 옆 버튼(새 탭 보기·내려받기)으로 보여 주는 구조를 추가한 것은 `0.79.0`, 매트릭스 카드 상세 정보 버튼과 XDM·SPX·VDM 카드 26종 사양을 등록한 것은 `0.80.0`, 로컬 작업 환경(`DEVICE_WORKFLOW.md`, `.gitattributes`, `.claude/settings.json`)과 `input_doc` 자료 자동 분류(`.claude/skills/input-doc`, `scripts/input_doc.py`)를 추가한 것은 `0.81.0`, 제조사 자료 입출력 단자 표에서 방향("입력"·"출력"·"입출력")·수량(숫자) 칸이 좁은 화면에서 줄바꿈되던 문제를 30개 제품 전수 조사로 찾아 고친 것은 `0.82.0`, 제목에 송신기·수신기가 들어간 제품 10종의 라벨을 색으로 구분한 것은 `0.83.0`, input_doc 첫 정리(매뉴얼 20권·사양서 1장)로 VDM HOS4-U 카드 사양을 등록하고 CIS4-U·COS4-U·QOS4S-U를 매뉴얼 KV07 값으로 보완하고 input_doc 반영 장부(`docs/evidence/input-doc-ledger.json`)와 파일별 반영 표시(`input_doc/STATUS.md`)를 추가하고 검증된 PR의 병합·배포를 Claude가 이어서 하도록 규칙을 바꾼 것은 `0.84.0`, 카탈로그·매뉴얼 충돌 정리(`docs/audit/CATALOG_MANUAL_CONFLICTS_2026-09-28.md`) 결정대로 VDM -U 카드에 매뉴얼 해상도 행·SOS4 오디오 포트를 더하고 QMS-88UX 멀티뷰에 8분할(16:9 비율)을 추가한 것은 `0.85.0`, 카탈로그·매뉴얼 충돌 항목을 사용자 결정("새로준 자료 기준으로")에 따라 매뉴얼 값으로 통일한 것(HD-104U 전원 1A, XDM 전송기 3840x2160, VDM 광 카드 10km·-U 카드 4096×2160·HOS4S-UW 1920×1080)은 `0.86.0`, RT컴 제공 고해상도 실물 사진으로 XDM-CTR100·XDM-FT101·XDM-FR101·XDM-CT103 제품 사진·목록 카드·구성기 04 전송기 썸네일을 교체하고 CTR100·FT101·CT103 단자 지도를 새 사진으로 다시 합성하고 XDM-FR101 수신기 뒷면 단자 지도를 추가한 것은 `0.87.0`, 사용자 결정("1번")으로 input_doc 매뉴얼 17개를 공개 폴더에 올려 16개 제품 상세에 매뉴얼 PDF 버튼을 켠 것은 `0.88.0`, 사용자 확인("ctr100과 pse는 단자는 동일해")에 따라 XDM-CTR100·XDM-CTR100 PSE 단자 지도를 같은 합성 사진(앞면 PSE 제품 안내서 사진 + 뒷면 RT컴 CTR100 사진)으로 바꾼 것은 `0.89.0`, QMS-88UX 06 화면 구성 모드의 DUAL 카드("듀얼 모드" 한 마디뿐)를 매뉴얼 KV.04 20~21쪽 근거로 출력 9·10번 멀티뷰 설정의 2분할(PBP)·PIP 레이아웃 3종으로 채운 것은 `0.90.0`, XDM-CTR100 PSE 정면 사진을 사용자가 재확인("1번 맞아"·"적용시켜줘")한 원본 PNG에서 정확한 픽셀 경계로 다시 잘라 646×396으로 다시 저장한 것은 `0.91.0`, SPX-TX/SPX-RX 단자 지도 사진의 검은 배경을 흰색으로 바꾸고(사용자 요청) 전송기 6개 제품 사양의 ft(피트) 표기를 일괄 삭제한 것은 `0.92.0`, 전송기 9종 04 제품 사양 조건 칸의 "모델A·모델B 공통" 표기 55곳을 일괄 삭제하고 XDM-PSU에 "03 Signal Flow"(POH 입력 경로·PHX 출력 경로, 주황 전원 선) 그림을 추가한 것은 `0.93.0`, XDM-CTR100·XDM-CTR100 PSE 04 제품 사양의 최대 전송거리 3행을 1행으로 합치고 권장 케이블 행을 지우고 PSE 목록 썸네일을 정면 사진으로 바꾼 것은 `0.94.0`, 전체 카탈로그 46쪽판을 공용 파일(`rtcom-catalog-2026.pdf`) 하나로 공개해 29개 제품 상세의 카탈로그 PDF 버튼이 제품 쪽(`#page=N`)에서 열리고 제품 목록에 전체 카탈로그 버튼을 둔 것(사용자 결정 2026-09-28 "전체 카탈로그 공개해도 돼")은 `0.95.0`, QMS-88UX 06 화면 구성 모드의 QUAD·DUAL 설명 문장을 짧게 줄이고 매뉴얼 쪽 번호를 화면에 안 보이는 `page` 항목으로 옮기고 QMS-44UX QUAD 설명도 두 줄로 나눠 줄인 것(사용자 요청 "QMS-44, 88 모두 글이 너무 많아 좀 더 요약해줘")은 `0.96.0`, 전체 카탈로그 46쪽판에서 제품마다 해당 쪽만 뽑은 제품별 카탈로그 PDF 29개(`<제품id>-catalog.pdf`, XDM은 전송기 쪽을 뺀 4~9쪽, SPX-TX/RX는 16쪽)를 만들어 제품 상세 카탈로그 버튼에 연결한 것(사용자 결정 2026-09-28 "제품별로 잘라 공개")은 `0.97.0`, XDM-PSU "03 Signal Flow"를 제조사 연결도처럼 매트릭스 프레임(CIS100·COS100)·XDM-PSU(POH·PHX)·XDM-CTR100 Tx/Rx 장비 그림으로 다시 그리고 케이블을 따라 신호·전원이 흐르는 애니메이션을 넣은 것(사용자 요청 2026-09-28)은 `0.98.0`, 그 그림의 XDM-COS100을 포트마다 RJ45+피닉스 5핀으로 고쳐 PHX 2핀 전원선이 1번 포트 피닉스 단자에 꽂히게 하고(사용자 확인 "COS PHNIX픽에 전원연결") XDM-PSU Signal Flow에만 "크게 보기" 확대 창(100~300%)을 넣은 것은 `0.99.0`, QMS-88UX "8분할(16:9 비율)" 미리보기가 매뉴얼(KV.04 23쪽)처럼 위·아래 여백을 짙은 막대로 보여주게 고친 것(사용자 지적 "8분할시 비율유지는 안되는거 같은")은 `0.100.0`, 구성기 카드 팝업 "카드별 수량" 스테퍼가 다 채운 뒤 사라지던 버그를 고친 것은 `0.101.0`, OBHD-2C 단자 지도 사진 3장의 검은 배경을 흰색으로 바꾼 것(사용자 요청 2026-09-28 "OBHD-2C 이미지 너가 블랙을 뺄수 있을까?")은 `0.102.0`, XDM-CTR100과 동등 사양인 XDM-CT103/CR103의 "권장 케이블"을 "CAT6a, CAT7"에서 "CAT6A S/FTP 이상(UTP 사용 불가)"으로 정정하고 XDM-CIS100·COS100 카드 소개 문구도 맞춘 것은 `0.103.0`, XDM-CTR100 PSE 크기 표기를 사용자 제공 스펙표 근거로 "107.4[127.4]×88×30.1mm"(본체[브래킷 포함])로 QMS-88UX와 같은 표기 관례로 바꾼 것은 `0.104.0`, XDM-PSU 머리 아이콘을 전원(번개) 모양으로 바꾸고 02 Port Map 앞면·뒷면을 03 Signal Flow와 같은 평면 그림(`scripts/tools/draw_xdm_psu_panels.cjs`, 제조사 도면 배치)으로 다시 만든 것(사용자 요청 2026-09-28)은 `0.105.0`, XDM-PSU 03 Signal Flow의 COS100 전원선 길이·배치를 조정하고 확대 창 범례 누락을 고친 것은 `0.106.0`, OBHD-2C 사진 3장에서 원본부터 깨져 있던 실크 글자(송신기 PWR의 R·EDID S/W의 D 두 개, 수신기 AUDIO의 D)를 같은 사진의 온전한 글자로 복원한 것은 `0.107.0`, HD-13U 제품 상세 카탈로그 PDF 버튼을 새 탭 대신 화면 안 팝업(iframe)으로 여는 샘플을 적용하고(사용자 요청 2026-09-28 "카달로그는 팝업형태 보이면 어때? 1장짜리라서 파일다운받아서 다시 열기 불편해", "샘플로 HD-13U만 적용해줘"), 카드 선택 팝업의 "순서대로 장착"·"닫기" 버튼을 "장착" 하나로 합치고 "다른 출력 슬롯으로 이동" 드롭다운을 없애고(사용자 요청 "내가 직접 드래그 이동이 가능하니까"), XDM-HOS100 "정사분할" 표기를 "최대 4분할"로 통일하고, XDM-CTR100·XDM-CTR100 PSE "최대 전송거리" 조건 문구를 "*S/FTP CAT6A 필수"로 단순화한 것은 `0.108.0`, QMS-88UX "03 Signal Flow" 멀티뷰 출력 9·10번 캡션을 "9·10번 각 4분할 · 합쳐서 최대 8입력"에서 "9·10번 각 4분할 또는 8분할"로 바로잡은 것(사용자 지적)은 `0.109.0`, XDM 연결 전송기 4종(XDM-CTR100·XDM-CTR100 PSE·XDM-CT103/CR103·XDM-FT101/FR101)의 04 제품 사양 최대 해상도 표기를 `4K60Hz`(4:4:4)로 통일하고 XDM-FT101/FR101의 4096x2160 표기를 개요·주요 기능·사양에서 모두 뺀 것(사용자 결정 2026-09-28 "4종 4K60(4:4:4) 형식으로 통일", "4096은 잘 사용하지 않아서 모든 양식에서 빼자")은 `0.110.0`, 실물 사진이 없는 VDM 프레임 전면 7종·후면 8종을 VDM-16X 실물 사진과 같은 검은 몸체의 평면 그림(`scripts/tools/draw_vdm_frames.cjs`, 매뉴얼 KV07 도면 배치)으로 바꾼 것은 `0.111.0`, HD-13U 카탈로그 팝업을 iframe 대신 저장소에 넣은 PDF.js(`src/vendor/pdfjs/`, Apache 2.0)로 그려 PDF 보기 기능이 없는 휴대폰·인앱 브라우저에서도 다운로드 없이 바로 보이게 한 것(사용자 결정 2026-09-28 "PDF.js로 HD-13U 적용해줘")은 `0.112.0`, 구성기 후면(03 카드 슬롯) XDM 6종(후면 사진이 없던 XDM-216 포함)·SPX 5종 프레임을 VDM과 같은 평면 그림(`scripts/tools/draw_xdm_spx_rear_frames.cjs`)으로 바꾼 것은 `0.113.0`, 02 프레임 선택 미리보기 캡션 아래에 "다음 · 카드 슬롯 구성" 버튼을 넣은 것은 `0.114.0`, 카드 선택 팝업 아래 줄의 "슬롯 비우기(Del)"를 왼쪽·"장착"을 오른쪽으로 바꾼 것은 `0.115.0`, 02 프레임 선택 미리보기에 정면·후면을 함께 보여 주고(위아래·좌우, 후면 세로/가로 비율 2 초과인 XDM-144·216, VDM-80X·128X·180X만 정면/후면 버튼) 휴대폰 미리보기 높이 제한을 없앤 것은 `0.116.0`, 03 카드 선택 팝업에서 카드마다 연동 전송기(칩)를 골라 장착과 함께 연결하게 한 것(02·04는 그대로)은 `0.117.0`, 카드 선택 팝업 연동 전송기에 카드 1장당 수량 조절기를 더해 연결 수량과 물량 산출서(BOM)에 반영한 것은 `0.118.0`, VDM-16X 후면(카드가 꽂힌 실물 사진)을 빈 슬롯 평면 그림으로 바꿔 후면 20종을 모두 그림으로 맞춘 것은 `0.119.0`, VDM 카드 사진(HOS4S-UW·CIS4-U·COS4-U)과 VDM 프레임 그림 슬롯 칸을 모두 5.7:1로 맞춰 카드가 칸에 정확히 들어가게 한 것은 `0.120.0`, HD-D102U를 최대 12대 장착하는 19인치 랙 프레임 "HD-D102U Rack마운트"를 사용자 제공 도면으로 31번째 제품(정면·윗면·옆면 그림, HD-D102U와 서로 관련 제품)으로 추가한 것은 `0.121.0`, 그 제품 상세에 사용자 제공 도면 한 장(윗면·정면·옆면·치수)을 다시 그린 "06 도면" 카드(`drawing` 항목)를 추가한 것은 `0.122.0`, 사용자 요청("실도면은하지말고 그래픽이미지만")으로 그 도면 카드와 치수 그림을 지우고 그래픽 이미지(정면·윗면·옆면)만 남긴 것은 `0.123.0`, 제품별 카탈로그 29종은 미리 그린 쪽 그림 팝업, 매뉴얼 17종은 보이는 쪽만 그리는 PDF.js 팝업으로 넓힌 것(사용자 결정 2026-09-28 "전체 제품으로 넓혀서 올리기")은 `0.124.0`, 제품정보 목록에서 매트릭스 시리즈를 XDM → SPX → VDM 순서로 바꿔 XDM이 맨 앞에 나오게 한 것(사용자 요청 "제품정보 XDM이 처음으로 나오게해")은 `0.125.0`, PC 문서 팝업(카탈로그·매뉴얼) 기본 폭을 720px에서 1040px로 넓히고 좌우 가장자리를 마우스로 끌어 폭을 바꾸고(이 브라우저에 기억, 두 번 누르면 기본 폭) "넓게" 버튼으로 화면 폭까지 펼치며 폭이 바뀌면 쪽을 다시 맞추게 한 것(사용자 요청 2026-09-28 "팝업창의 가로폭이 너무 좁아", "마우스로 창 크기 가변가능할까?")은 `0.126.0`, 01 제품군 미리보기 태그 줄 아래에 "프레임 선택" 버튼을 넣고(02 프레임 선택과 같은 방식) 파란 "다음" 버튼의 → 화살표가 파란 배경에 묻히던 색을 버튼 글자색(흰색)으로 고친 것(사용자 요청 2026-09-28 "이것도 버튼 위로 배치하고 오른쪽 화살표도 보이게")은 `0.127.0`, 01 제품군에서 미리보기 "프레임 선택" 버튼과 겹치던 아래 바의 같은 버튼을 숨겨 하나만 남긴 것(사용자 지적 2026-09-29 "버튼이 중복이다")은 `0.128.0`, 구성기 아래 바의 제품군·모델·카테고리 요약 글을 지우고 01 제품군에서는 아래 바 전체를 숨긴 것(사용자 요청 2026-09-29 "이거 삭제해줘")은 `0.129.0`, HD-D102U Rack마운트 정면 그림을 XDM-PSU 그림과 같은 밝은 회색 금속 몸체·흰 모듈 카드 컨셉으로 다시 그리고 윗면·옆면 그림을 지워 정면만 남긴 것(사용자 요청 2026-09-29 "XDM-PSU 그래픽컨셉을 계승해줘", "윗면 옆면은 전부 삭제해줘 정면만 남겨줘")은 `0.130.0`, 화면 명칭에서 "Matrix"를 뺀 "RTCOM Configurator" 표기(사용자 요청 2026-09-29)는 `0.131.0`, 02 프레임 선택 미리보기 그림 높이를 랙 높이(U)에 비례하는 로그 눈금으로 바꿔 가장 작은 VDM-8X·SPX-M810·XDM-12는 작게, 큰 프레임(VDM-80X~180X, XDM-144·216)은 크게 보이게 한 것(사용자 요청 2026-09-29 "VDM-8X는 다소 크다", "SPX, XDM도 비슷한 컨셉으로")은 `0.132.0`, HD-D102U Rack마운트 정면 그림의 칸 번호를 파란 원 배지로 키운 것(사용자 요청 2026-09-29)은 `0.133.0`, HD-D102U Rack마운트 정면 그림에서 분배기 칸 밖 영역을 조금 어둡게 한 것(사용자 요청 2026-09-29)은 `0.134.0`, 같은 영역을 한 단계 더 어둡게 마무리한 것(사용자 요청 2026-09-29)은 `0.135.0`, 프레임 실물 사진 26장과 제품군 대표 사진 3장을 모두 평면 그래픽 이미지로 바꾸고 02 프레임 선택 아래 바의 중복 "다음" 버튼을 숨긴 것(사용자 요청 2026-09-29 "프레임 실물 이미지는 사용하지 말자 전부 그래픽이미지로 변경해줘")은 `0.136.0`, 02 프레임 미리보기 정면·후면 폭 통일과 대형 프레임 후면 표시·01 제품군 대표 이미지 원복·카드 팝업 기존 장착 수량 표시·SPX 카드 판넬 좌우 간격 통일(사용자 요청 2026-09-29)은 `0.137.0`, XDM 입력 카드 6종 판넬 사진 가로 위치를 기준 카드에 맞춘 것(사용자 요청 2026-09-29 "xdm입력카드 좀 더 가로폭 맞춰줘")은 `0.138.0`, XDM 출력 카드 6종도 같은 방식으로 맞춘 것(사용자 요청 2026-09-29)은 `0.139.0`, CT103-U-H·CR103-U 제품 사진을 사용자 제공 통합 매뉴얼 Ver.1.4 표지 사진(542×532·544×534)으로 바꾸고 Port Map 좌표를 다시 잰 것(사용자 요청 2026-09-29)은 `0.140.0`으로 기록했습니다. 다음 기능 묶음은 `0.141.0`을 목표로 하며, 실제 병합 전에는 검증된 canonical main commit을 확인합니다.
 - 모든 작업은 구현 문서, QA 문서 또는 감사 문서에 근거와 결과를 남깁니다.
 - 사용자에게 받을 자료·남은 할 일은 `docs/handoff/OPEN_ITEMS.md`에 모아 둡니다. 새 세션은 이 목록을 먼저 확인하고, 처리한 항목은 지웁니다.
 

diff --git a/CHANGELOG.md b/CHANGELOG.md
@@ -84,6 +84,11 @@
 
 - **0.90.0 배포 기록**: `docs/qa/DEPLOYMENT_0.90_2026-09-28.md`(PR #85 → main 병합, 배포 run 64, 공개 파일 242/242 일치, 비공개 파일 6개 404)
 
+## 0.140.0
+
+- **CT103-U-H·CR103-U 제품 사진 고해상도 교체**(사용자 요청 2026-09-29 "CT103 이미지 활용해서 사이트에 있는거 수정해 지금 너무 저 해상도야", 사용자 제공 통합 매뉴얼 CT-103-U-H/CR-103-U Ver.1.4 표지): 송신기 CT-103-U-H 사진을 383×374에서 542×532로, 수신기 CR-103-U 사진을 483×475에서 544×534로 바꾸고 02 Port Map 번호 좌표를 새 사진 기준으로 다시 쟀습니다. 카탈로그 PDF(VDM 19쪽)의 CT-103-U 사진은 HDMI+VGA 모델이라 CT103-U-H(HDMI 2개)와 달라 쓰지 않았습니다.
+- 근거·rollback: `docs/implementation/CT103_PHOTO_UPGRADE_0.140.md`, 화면 확인 `docs/qa/ct103-image-screens/portmap.png`
+
 ## 0.139.0
 
 - **XDM 출력 카드 6종 가로 위치 통일**(사용자 요청 2026-09-29 "XDM 출력 카드 6종도 같은 방식으로 맞추고"): XDM-HOS100·DPOS100·COS100·FOS100·SOS100·WOS100 판넬 사진의 좌우 끝과 2핀 커넥터 열 위치를 XDM-HOS100 기준으로 맞췄습니다(WOS100은 커넥터가 없어 좌우 끝만). 스크립트는 `scripts/tools/align_xdm_cards.py`(입력·출력 묶음)로 이름을 바꿨습니다.

diff --git a/docs/implementation/CT103_PHOTO_UPGRADE_0.140.md b/docs/implementation/CT103_PHOTO_UPGRADE_0.140.md
@@ -1,0 +1,21 @@
+# CT103-U-H·CR103-U 제품 사진 교체 (0.140.0)
+
+사용자 요청(2026-09-29): CT103 사진이 저해상도이니 올려 준 자료로 교체.
+
+| 사진 | 이전 | 이후 | 출처 |
+|---|---|---|---|
+| 송신기 `ct103-u-h-cr103-u-main.webp` | 383×374 | 542×532 | 통합 매뉴얼 CT-103-U-H/CR-103-U Ver.1.4 표지(사용자 제공) |
+| 수신기 `cr103-u-manual.webp` | 483×475 | 544×534 | 같은 매뉴얼 표지 |
+
+- 사진은 PDF에 들어 있는 원본 픽셀을 그대로 저장했습니다(늘리거나 보정하지 않음).
+- 02 Port Map 번호 좌표(`data/products/ct103-u-h-cr103-u.json` `portMap`)를 새 사진 기준으로 다시 쟀습니다.
+- 카탈로그 PDF(VDM 시리즈 19쪽, `RTcom_catalogue_CT103-UCR103-U`)의 송신기 사진은 CT-103-U(HDMI 1 + VGA 1)라 CT103-U-H(HDMI 2)와 다른 모델이고 수신기도 판 부분 폭이 기존보다 작아 쓰지 않았습니다.
+- 매뉴얼 PDF는 공개 폴더에 새로 올리지 않았습니다(사용자가 직접 올리는 자료).
+
+## 검증
+
+단위 테스트·제품 인덱스·e2e·`git diff --check`, 화면: `docs/qa/ct103-image-screens/portmap.png`.
+
+## Rollback
+
+병합 커밋을 되돌리면 이전 사진·좌표로 돌아갑니다.

diff --git a/README.md b/README.md
@@ -1,6 +1,6 @@
 # RTCOM Configurator
 
-**현재 버전: 0.139** · XDM·SPX·VDM 매트릭스의 프레임과 카드 슬롯을 구성하는 도구(Analog Way 구조 + LED 글래스 스킨 + 블랭크 커버, 04 전송기도 좌우 분할)와 알티컴 공개 제품정보(31종, 글래스 디자인·연결 다이어그램)를 제공합니다.
+**현재 버전: 0.140** · XDM·SPX·VDM 매트릭스의 프레임과 카드 슬롯을 구성하는 도구(Analog Way 구조 + LED 글래스 스킨 + 블랭크 커버, 04 전송기도 좌우 분할)와 알티컴 공개 제품정보(31종, 글래스 디자인·연결 다이어그램)를 제공합니다.
 
 프레임을 고르고 실제 슬롯 위치에 입력·출력 카드를 장착한 뒤, 전송기와 BOM을 검토하고 JSON·CSV·인쇄 보고서로 내보냅니다. 0.19부터 알티컴 브로셔 수준 제품정보의 원본은 이 저장소(`data/products/`)이며, 머리글의 "알티컴 제품정보" 탭에서 봅니다. 비공개 AV Portal은 이 공개 데이터를 읽기만 합니다([인계 문서](docs/handoff/AV_PORTAL_RTCOM_PRODUCT_DATA.md)). 실제 슬롯·설치 허용표와 전원·케이블 조건은 확정 전이며, 모든 내보내기는 `UNVERIFIED_DRAFT`로 표시합니다.
 
